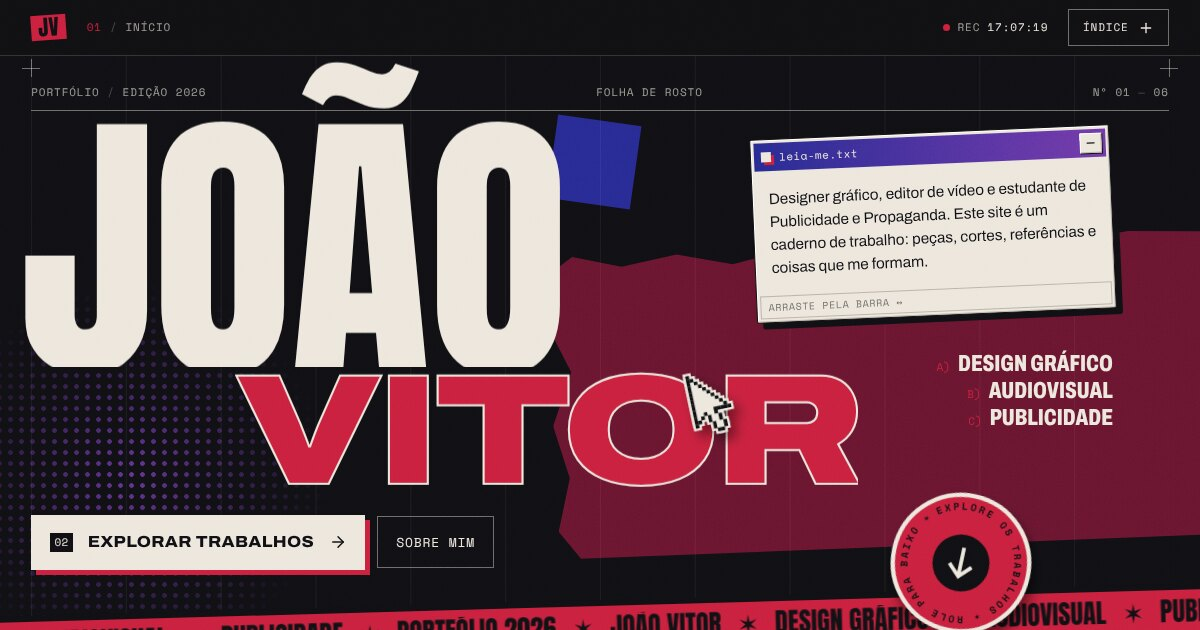
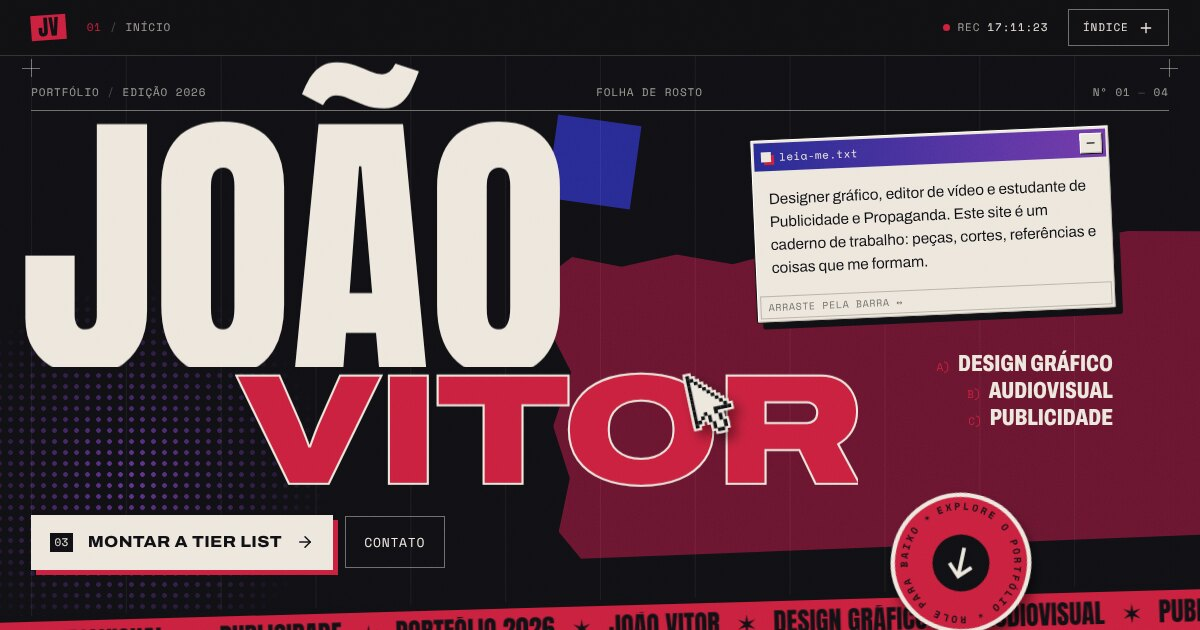
Esconde Trabalhos e Sobre mim até o conteúdo chegar
- Seções com chave enabled em src/data/sections.ts; menu, trilho e
  numeração recalculados (01 Início, 02 Jukebox, 03 Videoteca,
  04 Contato).
- Capa: CTA principal leva à tier list e o secundário ao contato;
  selo diz "explore o portfólio".
- Smiley vai para a Jukebox e a estrela NOVO! para a Videoteca.
- Imagem de compartilhamento atualizada.

Claude-Session: https://claude.ai/code/session_014rJcPr4xRa8eB9mTo8TGJq

diff --git a/src/App.tsx b/src/App.tsx
@@ -1,6 +1,6 @@
 import { useCallback, useRef, useState } from 'react';
 import { MotionConfig } from 'motion/react';
-import { sections } from './data/sections';
+import { sections, isEnabled, sectionMeta } from './data/sections';
 import { useActiveSection } from './hooks/useActiveSection';
 import { Header } from './components/layout/Header';
 import { SideRail } from './components/layout/SideRail';
@@ -16,7 +16,6 @@ import { FloatingSticker } from './components/stickers/FloatingSticker';
 import { PlaceholderSection } from './sections/Placeholder/PlaceholderSection';
 
 const ids = sections.map((s) => s.id);
-const byId = Object.fromEntries(sections.map((s) => [s.id, s])) as Record<string, (typeof sections)[number]>;
 
 export default function App() {
   const active = useActiveSection(ids);
@@ -44,18 +43,26 @@ export default function App() {
 
       <main id="conteudo">
         <Hero />
-        {/* Seções ainda provisórias: Trabalhos e Sobre mim */}
-        <PlaceholderSection meta={byId.trabalhos} tone="black" note="Galeria de projetos com dados separados — próxima etapa.">
+        {/* Trabalhos e Sobre mim: desativadas em src/data/sections.ts até o conteúdo chegar */}
+        {isEnabled('trabalhos') && (
+          <>
+        <PlaceholderSection meta={sectionMeta('trabalhos')} tone="black" note="Galeria de projetos com dados separados — próxima etapa.">
           <FloatingSticker name="estrela" pos={{ top: '12%', right: '18%' }} rotate={10} mobile={{ pos: { top: '0.75rem', right: '4%' }, size: '5.5rem' }} />
           <FloatingSticker name="autoral" pos={{ bottom: '10%', left: '38%' }} rotate={-8} delay={0.15} size="clamp(6rem, 4rem + 5vw, 9.5rem)" mobile={{ pos: { top: '40%', left: '8%' }, size: '6rem' }} />
           <FloatingSticker name="raio" pos={{ top: '8%', left: '46%' }} rotate={12} delay={0.3} size="clamp(5.5rem, 4rem + 4vw, 8.5rem)" hideOnMobile />
         </PlaceholderSection>
+          </>
+        )}
+        {isEnabled('sobre') && (
+          <>
         <TornEdge seed="sobre" color="var(--c-paper)" fibre="var(--c-paper-dim)" />
-        <PlaceholderSection meta={byId.sobre} tone="paper" note="Apresentação pessoal com espaço para fotografia — próxima etapa.">
+        <PlaceholderSection meta={sectionMeta('sobre')} tone="paper" note="Apresentação pessoal com espaço para fotografia — próxima etapa.">
           <FloatingSticker name="smiley" pos={{ top: '14%', right: '14%' }} rotate={-10} mobile={{ pos: { top: '0.75rem', right: '4%' }, size: '5.5rem' }} />
           <FloatingSticker name="rec" pos={{ bottom: '8%', left: '6%' }} rotate={6} delay={0.15} size="clamp(7rem, 4.5rem + 6vw, 11rem)" mobile={{ pos: { top: '42%', right: '8%' }, size: '7rem' }} />
           <FloatingSticker name="coracao" pos={{ top: '46%', right: '40%' }} rotate={8} delay={0.3} size="clamp(5rem, 3.5rem + 4vw, 8rem)" hideOnMobile />
         </PlaceholderSection>
+          </>
+        )}
         <TornEdge seed="jukebox" color="var(--c-blue)" />
         <Jukebox />
         <Videoteca />

diff --git a/src/data/sections.ts b/src/data/sections.ts
@@ -1,10 +1,4 @@
-export type SectionId =
-  | 'inicio'
-  | 'trabalhos'
-  | 'sobre'
-  | 'jukebox'
-  | 'videoteca'
-  | 'contato';
+export type SectionId = 'inicio' | 'trabalhos' | 'sobre' | 'jukebox' | 'videoteca' | 'contato';
 
 export interface SectionMeta {
   id: SectionId;
@@ -14,11 +8,27 @@ export interface SectionMeta {
   blurb: string;
 }
 
-export const sections: SectionMeta[] = [
-  { id: 'inicio', num: '01', label: 'Início', blurb: 'capa / apresentação' },
-  { id: 'trabalhos', num: '02', label: 'Trabalhos', blurb: 'projetos selecionados' },
-  { id: 'sobre', num: '03', label: 'Sobre mim', blurb: 'quem, como, com o quê' },
-  { id: 'jukebox', num: '04', label: 'Jukebox', blurb: 'trilha de trabalho' },
-  { id: 'videoteca', num: '05', label: 'Videoteca', blurb: 'filmes de referência' },
-  { id: 'contato', num: '06', label: 'Contato', blurb: 'vamos conversar' },
+/**
+ * Todas as seções, na ordem do site.
+ * `enabled: false` esconde a seção do menu, do trilho lateral e da página —
+ * para reativar Trabalhos e Sobre mim quando o conteúdo chegar, troque para true.
+ * A numeração (01, 02…) é recalculada sozinha.
+ */
+const all: (Omit<SectionMeta, 'num'> & { enabled: boolean })[] = [
+  { id: 'inicio', label: 'Início', blurb: 'capa / apresentação', enabled: true },
+  { id: 'trabalhos', label: 'Trabalhos', blurb: 'projetos selecionados', enabled: false },
+  { id: 'sobre', label: 'Sobre mim', blurb: 'quem, como, com o quê', enabled: false },
+  { id: 'jukebox', label: 'Jukebox', blurb: 'trilha de trabalho', enabled: true },
+  { id: 'videoteca', label: 'Videoteca', blurb: 'filmes de referência', enabled: true },
+  { id: 'contato', label: 'Contato', blurb: 'vamos conversar', enabled: true },
 ];
+
+export const sections: SectionMeta[] = all
+  .filter((s) => s.enabled)
+  .map(({ enabled: _e, ...s }, i) => ({ ...s, num: String(i + 1).padStart(2, '0') }));
+
+export const isEnabled = (id: SectionId) => sections.some((s) => s.id === id);
+
+/** Metadados de uma seção (inclusive desativadas, para quando forem reativadas) */
+export const sectionMeta = (id: SectionId): SectionMeta =>
+  sections.find((s) => s.id === id) ?? { ...all.find((s) => s.id === id)!, num: '—' };

diff --git a/src/sections/Hero/Hero.tsx b/src/sections/Hero/Hero.tsx
@@ -2,6 +2,7 @@ import { useRef, useState, type PointerEvent } from 'react';
 import { motion, useMotionValue, useSpring, useTransform, useReducedMotion } from 'motion/react';
 import { ArrowRight } from 'lucide-react';
 import { site } from '../../data/site';
+import { sections, sectionMeta } from '../../data/sections';
 import { useFinePointer } from '../../hooks/useMediaQuery';
 import { MaskText } from '../../components/ui/MaskText';
 import { RetroWindow } from '../../components/ui/RetroWindow';
@@ -82,7 +83,7 @@ export function Hero() {
         </p>
         <p className={`mono ${styles.metaCenter}`}>Folha de rosto</p>
         <p className="mono">
-          Nº 01 <span className={styles.dim}>—</span> 06
+          Nº 01 <span className={styles.dim}>—</span> {String(sections.length).padStart(2, '0')}
         </p>
       </motion.div>
 
@@ -135,13 +136,13 @@ export function Hero() {
 
       {/* ——— Chamadas ——— */}
       <motion.div className={styles.ctaRow} variants={fadeUp} initial="hidden" animate="show" custom={12}>
-        <a href="#trabalhos" className={styles.cta} data-cursor="ver">
-          <span className={styles.ctaIdx}>02</span>
-          <span>Explorar trabalhos</span>
+        <a href="#videoteca" className={styles.cta} data-cursor="jogar">
+          <span className={styles.ctaIdx}>{sectionMeta('videoteca').num}</span>
+          <span>Montar a tier list</span>
           <ArrowRight size={18} aria-hidden="true" />
         </a>
-        <a href="#sobre" className={styles.ctaGhost} data-cursor="ler">
-          Sobre mim
+        <a href="#contato" className={styles.ctaGhost} data-cursor="falar">
+          Contato
         </a>
       </motion.div>
 
@@ -150,7 +151,7 @@ export function Hero() {
         initial={{ scale: 0, rotate: -40 }}
         animate={{ scale: 1, rotate: 12, transition: { delay: 1.3, type: 'spring', stiffness: 160, damping: 14 } }}
       >
-        <Sticker href="#trabalhos" label="Ir para trabalhos" />
+        <Sticker href={`#${sections[1]?.id ?? 'contato'}`} label={`Ir para ${sections[1]?.label ?? 'Contato'}`} />
       </motion.div>
 
       <FloatingSticker

diff --git a/src/sections/Jukebox/Jukebox.tsx b/src/sections/Jukebox/Jukebox.tsx
@@ -1,7 +1,7 @@
 import { useRef } from 'react';
 import { motion } from 'motion/react';
 import { ExternalLink, Pause, Play, SkipBack, SkipForward, Volume2, VolumeX } from 'lucide-react';
-import { sections } from '../../data/sections';
+import { sectionMeta } from '../../data/sections';
 import { tracks, type Track } from '../../data/jukebox';
 import { useJukebox, formatTime, trackDuration } from '../../hooks/useJukebox';
 import { spotifyUrl } from '../../lib/spotify';
@@ -13,7 +13,7 @@ import { Equalizer } from './Equalizer';
 import { FloatingSticker } from '../../components/stickers/FloatingSticker';
 import styles from './Jukebox.module.css';
 
-const meta = sections.find((s) => s.id === 'jukebox')!;
+const meta = sectionMeta('jukebox');
 
 function Cover({ track, i }: { track: Track; i: number }) {
   return track.cover ? (
@@ -48,6 +48,7 @@ export function Jukebox() {
         </motion.p>
       </div>
 
+      <FloatingSticker name="smiley" pos={{ top: '6%', left: '42%' }} rotate={-10} size="clamp(6rem, 4rem + 4vw, 9rem)" hideOnMobile />
       <FloatingSticker name="cassete" pos={{ bottom: '6%', left: '6%' }} rotate={-9} delay={0.2} size="clamp(7rem, 4.5rem + 7vw, 12rem)" mobile={{ pos: { top: '5rem', right: '4%' }, size: '6.5rem' }} />
 
       <div className={styles.grid}>

diff --git a/src/sections/Videoteca/Videoteca.tsx b/src/sections/Videoteca/Videoteca.tsx
@@ -1,7 +1,7 @@
 import { useCallback, useEffect, useRef, useState } from 'react';
 import { motion } from 'motion/react';
 import { RotateCcw, Sparkles } from 'lucide-react';
-import { sections } from '../../data/sections';
+import { sectionMeta } from '../../data/sections';
 import { films } from '../../data/videoteca';
 import { useTierList } from '../../hooks/useTierList';
 import { Ransom } from '../../components/ui/Ransom';
@@ -13,7 +13,7 @@ import { ResultCard } from './ResultCard';
 import { FloatingSticker } from '../../components/stickers/FloatingSticker';
 import styles from './Videoteca.module.css';
 
-const meta = sections.find((s) => s.id === 'videoteca')!;
+const meta = sectionMeta('videoteca');
 
 /**
  * 05 — VIDEOTECA
@@ -49,6 +49,7 @@ export function Videoteca() {
     <section id="videoteca" className={styles.section} aria-label={meta.label}>
       <div className={styles.perf} aria-hidden="true" />
 
+      <FloatingSticker name="estrela" pos={{ top: '4.5rem', left: '47%' }} rotate={12} size="clamp(6rem, 4rem + 4vw, 9rem)" hideOnMobile delay={0.15} />
       <FloatingSticker name="ticket" pos={{ top: '3.5rem', right: '6%' }} rotate={-10} size="clamp(7rem, 4.5rem + 7vw, 12.5rem)" hideOnMobile />
 
       <header className={styles.head}>

diff --git a/src/sections/Contact/Contact.tsx b/src/sections/Contact/Contact.tsx
@@ -1,7 +1,7 @@
 import { useState } from 'react';
 import { motion } from 'motion/react';
 import { ArrowUp, ArrowUpRight, Check, Copy } from 'lucide-react';
-import { sections } from '../../data/sections';
+import { sectionMeta } from '../../data/sections';
 import { site } from '../../data/site';
 import { MaskText } from '../../components/ui/MaskText';
 import { Marquee } from '../../components/ui/Marquee';
@@ -11,7 +11,7 @@ import { fadeUp } from '../../lib/motion';
 import { FloatingSticker } from '../../components/stickers/FloatingSticker';
 import styles from './Contact.module.css';
 
-const meta = sections.find((s) => s.id === 'contato')!;
+const meta = sectionMeta('contato');
 
 interface Channel {
   key: string;

diff --git a/src/components/stickers/StickerArt.tsx b/src/components/stickers/StickerArt.tsx
@@ -54,7 +54,7 @@ const Selo = () => (
     <g className={styles.spin}>
       <text style={{ ...mono, fontSize: 16, letterSpacing: '0.24em' }} fill={C.black}>
         <textPath href="#selo-ring" textLength="530">
-          EXPLORE OS TRABALHOS ✶ ROLE PARA BAIXO ✶
+          EXPLORE O PORTFÓLIO ✶ ROLE PARA BAIXO ✶
         </textPath>
       </text>
     </g>

diff --git a/src/components/ui/Sticker.tsx b/src/components/ui/Sticker.tsx
@@ -8,7 +8,7 @@ interface Props {
   className?: string;
 }
 
-/** Selo "explore os trabalhos" (desenhado no Figma) funcionando como link */
+/** Selo "explore o portfólio" (desenhado no Figma) funcionando como link */
 export function Sticker({ href, label, className }: Props) {
   const Selo = stickerArt.selo;
   return (

diff --git a/README.md b/README.md
@@ -26,7 +26,7 @@ src/
 ## Onde editar
 
 - Textos de apresentação e links de contato: `src/data/site.ts` (links vazios não viram botão).
-- Nomes/ordem das seções: `src/data/sections.ts`.
+- Nomes/ordem das seções: `src/data/sections.ts`. Para mostrar/esconder uma seção, troque `enabled` (Trabalhos e Sobre mim estão desligadas até o conteúdo chegar).
 - Cores e fontes: `src/styles/tokens.css`.
 - Jukebox: `src/data/jukebox.ts` — `spotify` (link ou URI de faixa; toca pelo player oficial do Spotify: prévia de 30s sem login, faixa inteira logado), `src` (arquivo próprio/licenciado em `public/audio`), `link` (externo) e `cover`.
 - Videoteca / tier list: `src/data/videoteca.ts` — `title`, `year`, `director`, `poster` (em `public/videoteca`, de preferência .webp ~480px), `comment`, `persona` (perfil que o visitante recebe se o filme ficar no topo) e `myTier` (sua nota; com todos preenchidos, a carteirinha mostra a compatibilidade do visitante com você).
@@ -36,4 +36,4 @@ src/
 - Etapa 1 — identidade visual, navegação e Início.
 - Etapa 2 — Jukebox e Videoteca. Mural removido.
 - Etapa 3 — Jukebox com Spotify; Videoteca virou tier list interativa com carteirinha final (PNG).
-- Pendentes: Trabalhos, Sobre mim e Contato (provisórias, "em montagem").
+- Pendentes: Trabalhos e Sobre mim (desligadas em `sections.ts`, aguardando conteúdo).
